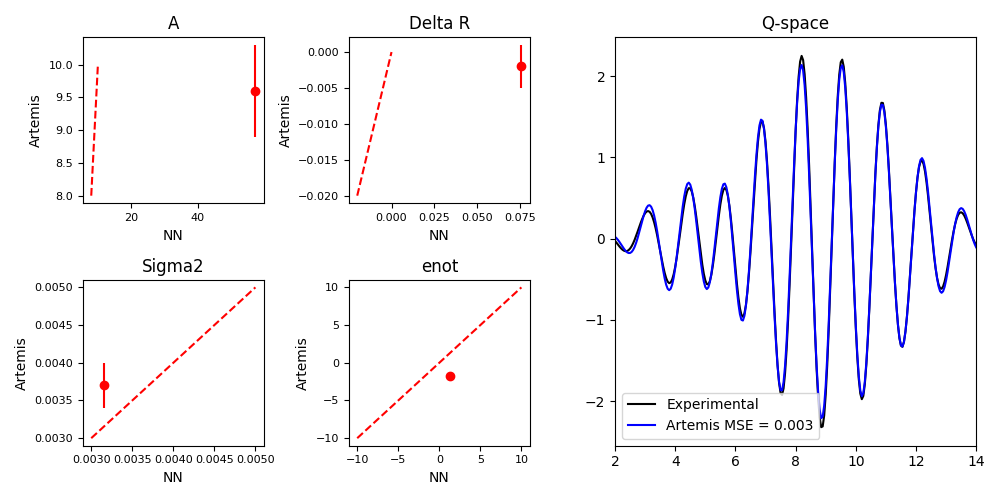
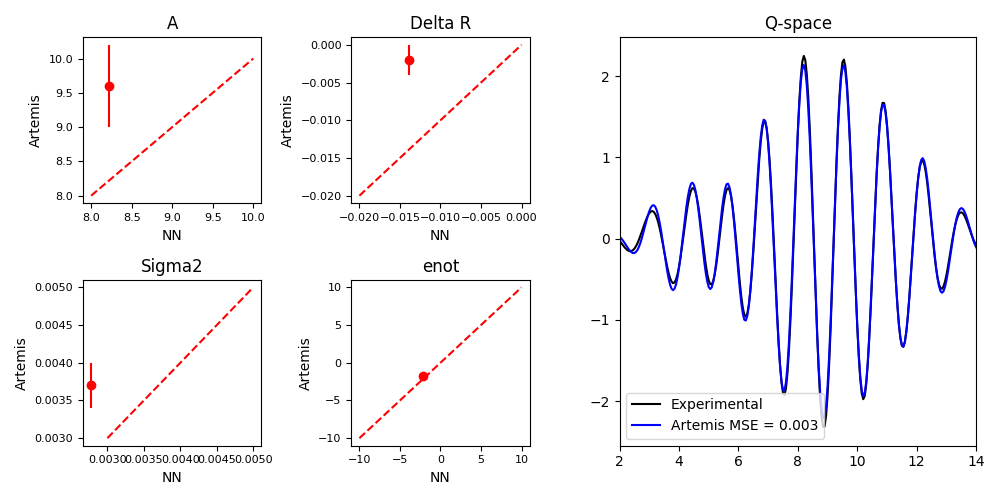
updated

diff --git a/src/crowpeas/core.py b/src/crowpeas/core.py
@@ -238,8 +238,19 @@ class CrowPeas:
                     raise ValueError(
                         f"Parameter {param} is missing in artemis section of config file"
                     )
+        # Convert numeric strings to floats in norm_params_spectra
+        norm_params_spectra = self.config.get('general', {}).get('norm_params_spectra', {})
+        self.config['general']['norm_params_spectra'] = {
+            key: float(value) for key, value in norm_params_spectra.items()
+        }
 
-            
+        # Repeat the process for norm_params_parameters
+        norm_params_parameters = self.config.get('general', {}).get('norm_params_parameters')
+        if isinstance(norm_params_parameters, list):
+            self.config['general']['norm_params_parameters'] = np.array(norm_params_parameters)
+        elif isinstance(norm_params_parameters, dict):
+            self.config['general']['norm_params_parameters'] = norm_params_parameters
+    
 
         self.title = self.config["general"]["title"]
         self.norm_params_spectra = self.config["general"].get(
@@ -356,7 +367,16 @@ class CrowPeas:
         return self
 
     def save_config(self, path: str | None = None):
-        
+
+        # Process norm_params_parameters
+        norm_params_parameters = self.config["general"].get('norm_params_parameters')
+        if isinstance(norm_params_parameters, dict):
+            for key, value in norm_params_parameters.items():
+                if isinstance(value, np.ndarray):
+                    norm_params_parameters[key] = value.tolist()
+        elif isinstance(norm_params_parameters, np.ndarray):
+            self.config["general"]['norm_params_parameters'] = norm_params_parameters.tolist()
+
         if "experiment" in self.config and "artemis" not in self.config:
             self.config = {
             "general": {
@@ -994,12 +1014,17 @@ class CrowPeas:
         artemis_results = self.config["artemis"]["result"]
         artemis_unc = self.config["artemis"]["unc"]
 
-        self.predict_and_denormalize_BNN(interpolated_chi_k/self.norm_params_spectra["max_abs_val"])
-        #self.predict_and_denormalize(interpolated_chi_k/self.norm_params_spectra["max_abs_val"])
-        preds, uncs = self.denormalized_test_pred
-        #predicted_a, predicted_deltar, predicted_sigma2, predicted_e0 = self.denormalized_test_pred[0]
-        predicted_a, predicted_deltar, predicted_sigma2, predicted_e0 = preds
-        a_unc, deltar_unc, sigma2_unc, e0_unc = uncs
+        if network_type == "BNN":
+            self.predict_and_denormalize_BNN(interpolated_chi_k/self.norm_params_spectra["max_abs_val"])
+            preds, uncs = self.denormalized_test_pred
+            predicted_a, predicted_deltar, predicted_sigma2, predicted_e0 = preds
+            a_unc, deltar_unc, sigma2_unc, e0_unc = uncs
+
+        if network_type == "MLP":
+            self.predict_and_denormalize(interpolated_chi_k/self.norm_params_spectra["max_abs_val"])
+            predicted_a, predicted_deltar, predicted_sigma2, predicted_e0 = self.denormalized_test_pred[0]
+            a_unc, deltar_unc, sigma2_unc, e0_unc = [0,0,0,0]
+
 
         path_predicted = feffpath(self.feff_path_file)
         path_predicted.s02 = 1
